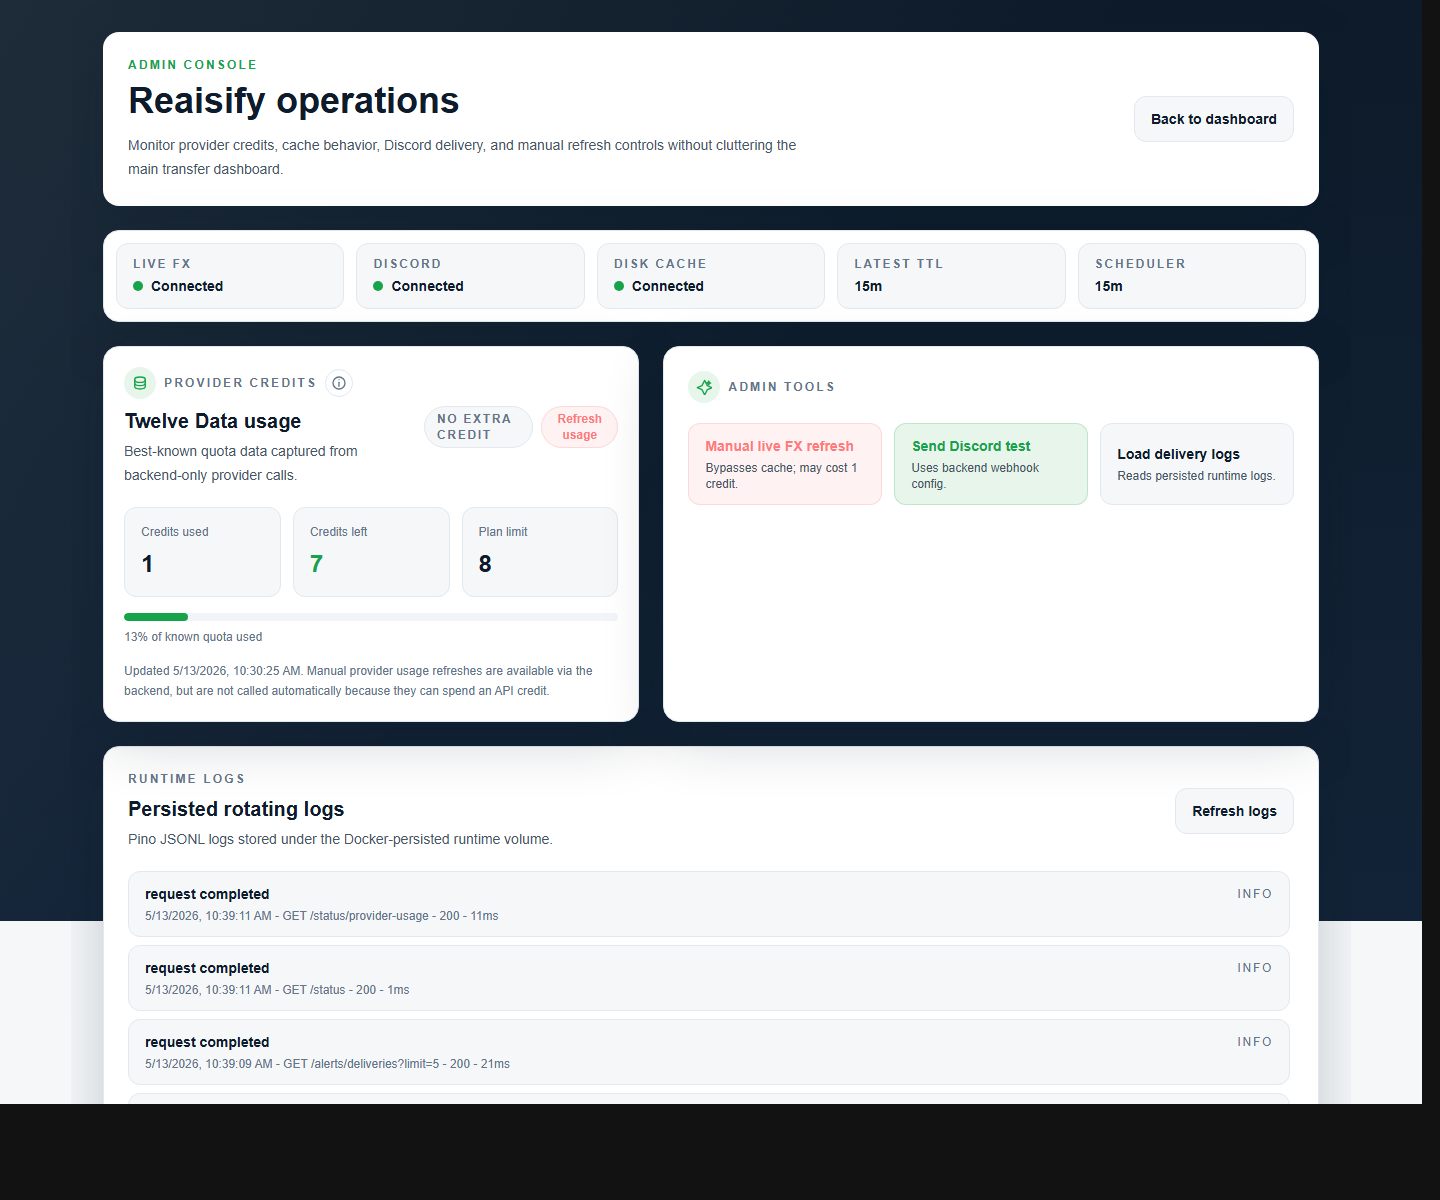
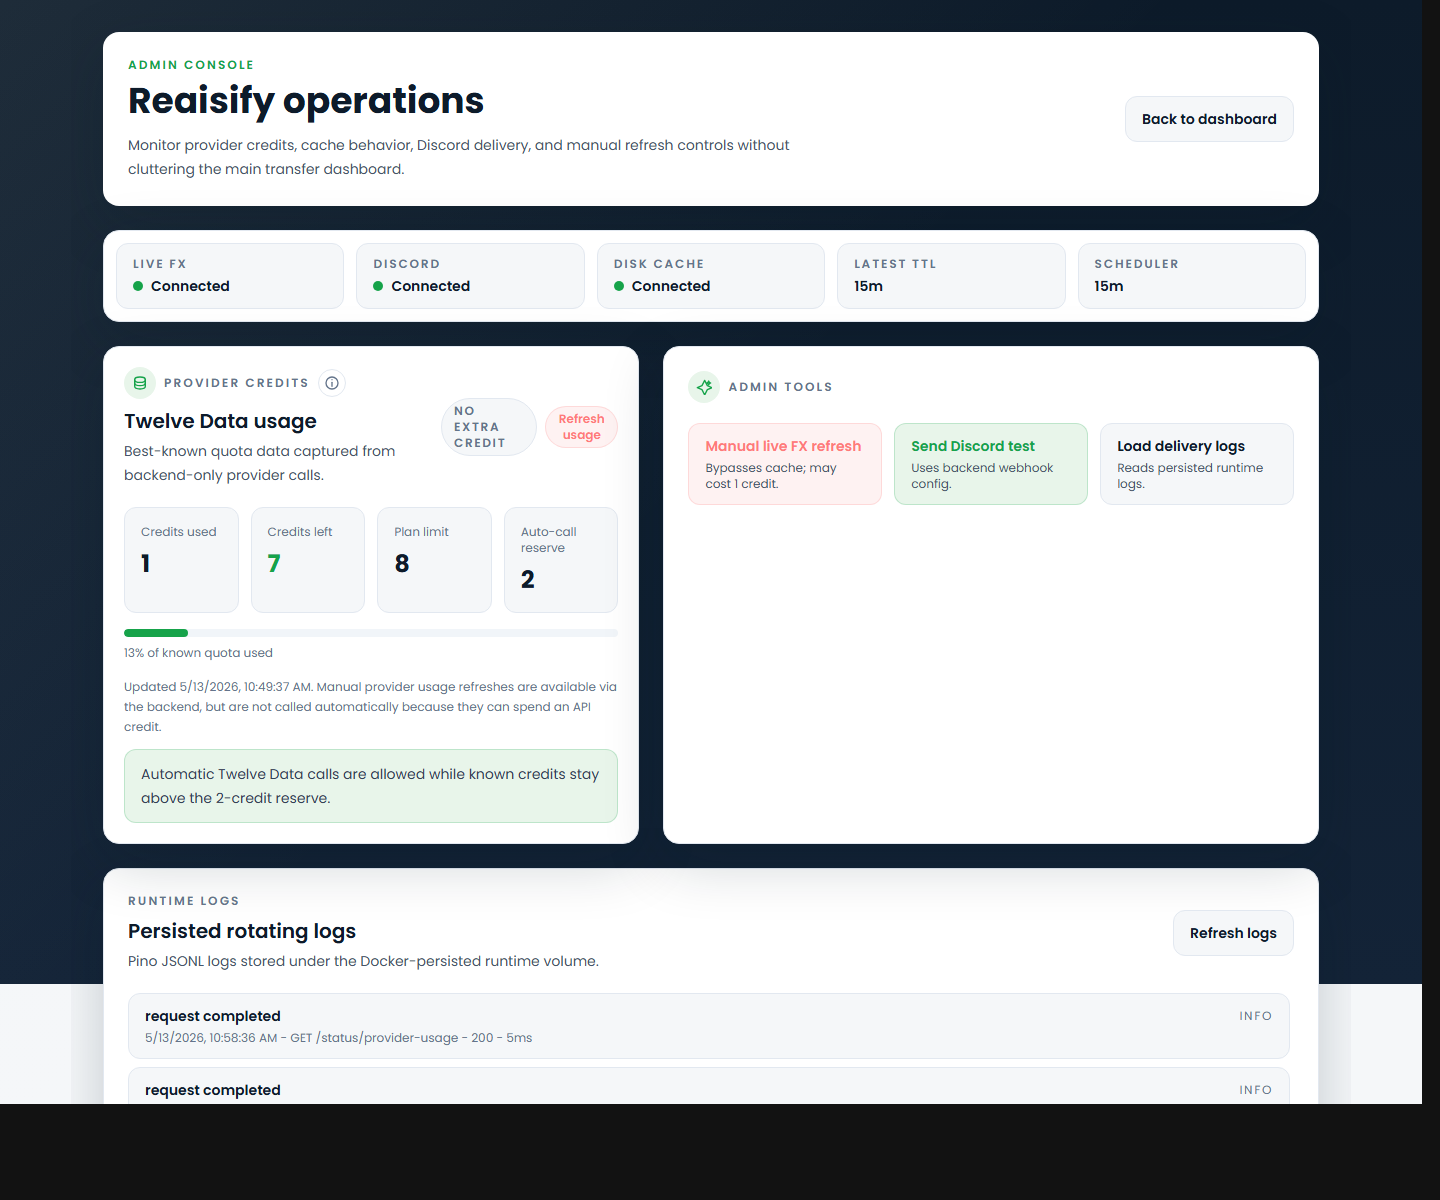
Show Twelve Data reserve in admin

diff --git a/frontend/src/components/ProviderUsageCard.tsx b/frontend/src/components/ProviderUsageCard.tsx
@@ -1,6 +1,6 @@
 import { useEffect, useState } from "react";
-import { getProviderUsage, refreshProviderUsage } from "../services/fxService";
-import type { ProviderUsageSnapshot } from "../types/currency";
+import { getProviderUsage, getSystemStatus, refreshProviderUsage } from "../services/fxService";
+import type { ProviderUsageSnapshot, SystemStatus } from "../types/currency";
 import { Icon } from "./Icon";
 import { InfoPopover } from "./InfoPopover";
 
@@ -18,6 +18,7 @@ interface ProviderUsageCardProps {
 
 export const ProviderUsageCard = ({ showRefreshAction = false }: ProviderUsageCardProps) => {
   const [usage, setUsage] = useState<ProviderUsageSnapshot | null>(null);
+  const [status, setStatus] = useState<SystemStatus | null>(null);
   const [isRefreshing, setIsRefreshing] = useState(false);
   const [error, setError] = useState<string | null>(null);
 
@@ -26,9 +27,10 @@ export const ProviderUsageCard = ({ showRefreshAction = false }: ProviderUsageCa
 
     const loadUsage = async () => {
       try {
-        const data = await getProviderUsage();
+        const [usageData, statusData] = await Promise.all([getProviderUsage(), getSystemStatus()]);
         if (isActive) {
-          setUsage(data);
+          setUsage(usageData);
+          setStatus(statusData);
           setError(null);
         }
       } catch (loadError) {
@@ -51,7 +53,9 @@ export const ProviderUsageCard = ({ showRefreshAction = false }: ProviderUsageCa
   const used = usage?.apiCreditsUsed;
   const left = usage?.apiCreditsLeft;
   const limit = usage?.apiCreditLimit;
+  const reserve = status?.twelveDataCreditReserve;
   const usagePercent = used !== undefined && limit ? Math.min(100, Math.round((used / limit) * 100)) : null;
+  const isReserveActive = left !== undefined && reserve !== undefined && reserve > 0 && left <= reserve;
 
   const refreshUsage = async () => {
     const confirmed = window.confirm(
@@ -82,7 +86,7 @@ export const ProviderUsageCard = ({ showRefreshAction = false }: ProviderUsageCa
             </span>
             <p className="text-xs font-semibold uppercase tracking-[0.18em] text-slatebrand">Provider Credits</p>
             <InfoPopover label="Explain provider credits" title="Credit tracking">
-              Usage is captured from provider response headers when available. Manual refresh is intentionally not automatic because it may spend a credit.
+              Usage is captured from provider response headers when available. Automatic Twelve Data calls stop when credits left are at or below the reserve threshold.
             </InfoPopover>
           </div>
           <h2 className="mt-2 text-xl font-semibold text-ink">Twelve Data usage</h2>
@@ -107,7 +111,7 @@ export const ProviderUsageCard = ({ showRefreshAction = false }: ProviderUsageCa
         </div>
       </div>
 
-      <div className="mt-5 grid gap-3 sm:grid-cols-3">
+      <div className="mt-5 grid gap-3 sm:grid-cols-2 xl:grid-cols-4">
         <div className="rounded-xl border border-slate-200 bg-sand p-4">
           <div className="text-xs text-slate-500">Credits used</div>
           <div className="mt-2 text-2xl font-bold text-ink">{used ?? "--"}</div>
@@ -119,6 +123,12 @@ export const ProviderUsageCard = ({ showRefreshAction = false }: ProviderUsageCa
         <div className="rounded-xl border border-slate-200 bg-sand p-4">
           <div className="text-xs text-slate-500">Plan limit</div>
           <div className="mt-2 text-2xl font-bold text-ink">{limit ?? "--"}</div>
+        </div>
+        <div className={`rounded-xl border p-4 ${isReserveActive ? "border-danger/30 bg-danger/10" : "border-slate-200 bg-sand"}`}>
+          <div className="text-xs text-slate-500">Auto-call reserve</div>
+          <div className={`mt-2 text-2xl font-bold ${isReserveActive ? "text-danger" : "text-ink"}`}>
+            {reserve ?? "--"}
+          </div>
         </div>
       </div>
 
@@ -134,6 +144,16 @@ export const ProviderUsageCard = ({ showRefreshAction = false }: ProviderUsageCa
       <div className="mt-4 text-xs leading-5 text-slate-500">
         Updated {formatUsageTimestamp(usage?.updatedAt)}. Manual provider usage refreshes are available via the backend, but are not called automatically because they can spend an API credit.
       </div>
+
+      {isReserveActive ? (
+        <div className="mt-3 rounded-xl border border-danger/30 bg-danger/10 px-4 py-3 text-sm leading-6 text-danger">
+          Credit reserve is active. Automatic latest-rate calls will skip Twelve Data and use fallback providers until usage is refreshed or the reserve is changed.
+        </div>
+      ) : reserve !== undefined ? (
+        <div className="mt-3 rounded-xl border border-mint/20 bg-surf px-4 py-3 text-sm leading-6 text-slate-700">
+          Automatic Twelve Data calls are allowed while known credits stay above the {reserve}-credit reserve.
+        </div>
+      ) : null}
 
       {error ? (
         <div className="mt-3 rounded-xl border border-danger/30 bg-danger/10 px-4 py-3 text-sm text-danger">

diff --git a/frontend/src/pages/AdminDashboard.tsx b/frontend/src/pages/AdminDashboard.tsx
@@ -41,7 +41,7 @@ export const AdminDashboard = () => (
         <div className="mt-4 grid gap-4 md:grid-cols-3">
           <div className="rounded-xl border border-slate-200 bg-sand p-4">
             <div className="font-semibold text-ink">Latest rates</div>
-            <p className="mt-2 text-sm leading-6 text-slate-600">Twelve Data first, then Frankfurter, then mock fallback.</p>
+            <p className="mt-2 text-sm leading-6 text-slate-600">Twelve Data first while credits are above reserve, then Frankfurter, then mock fallback.</p>
           </div>
           <div className="rounded-xl border border-slate-200 bg-sand p-4">
             <div className="font-semibold text-ink">Historical charts</div>